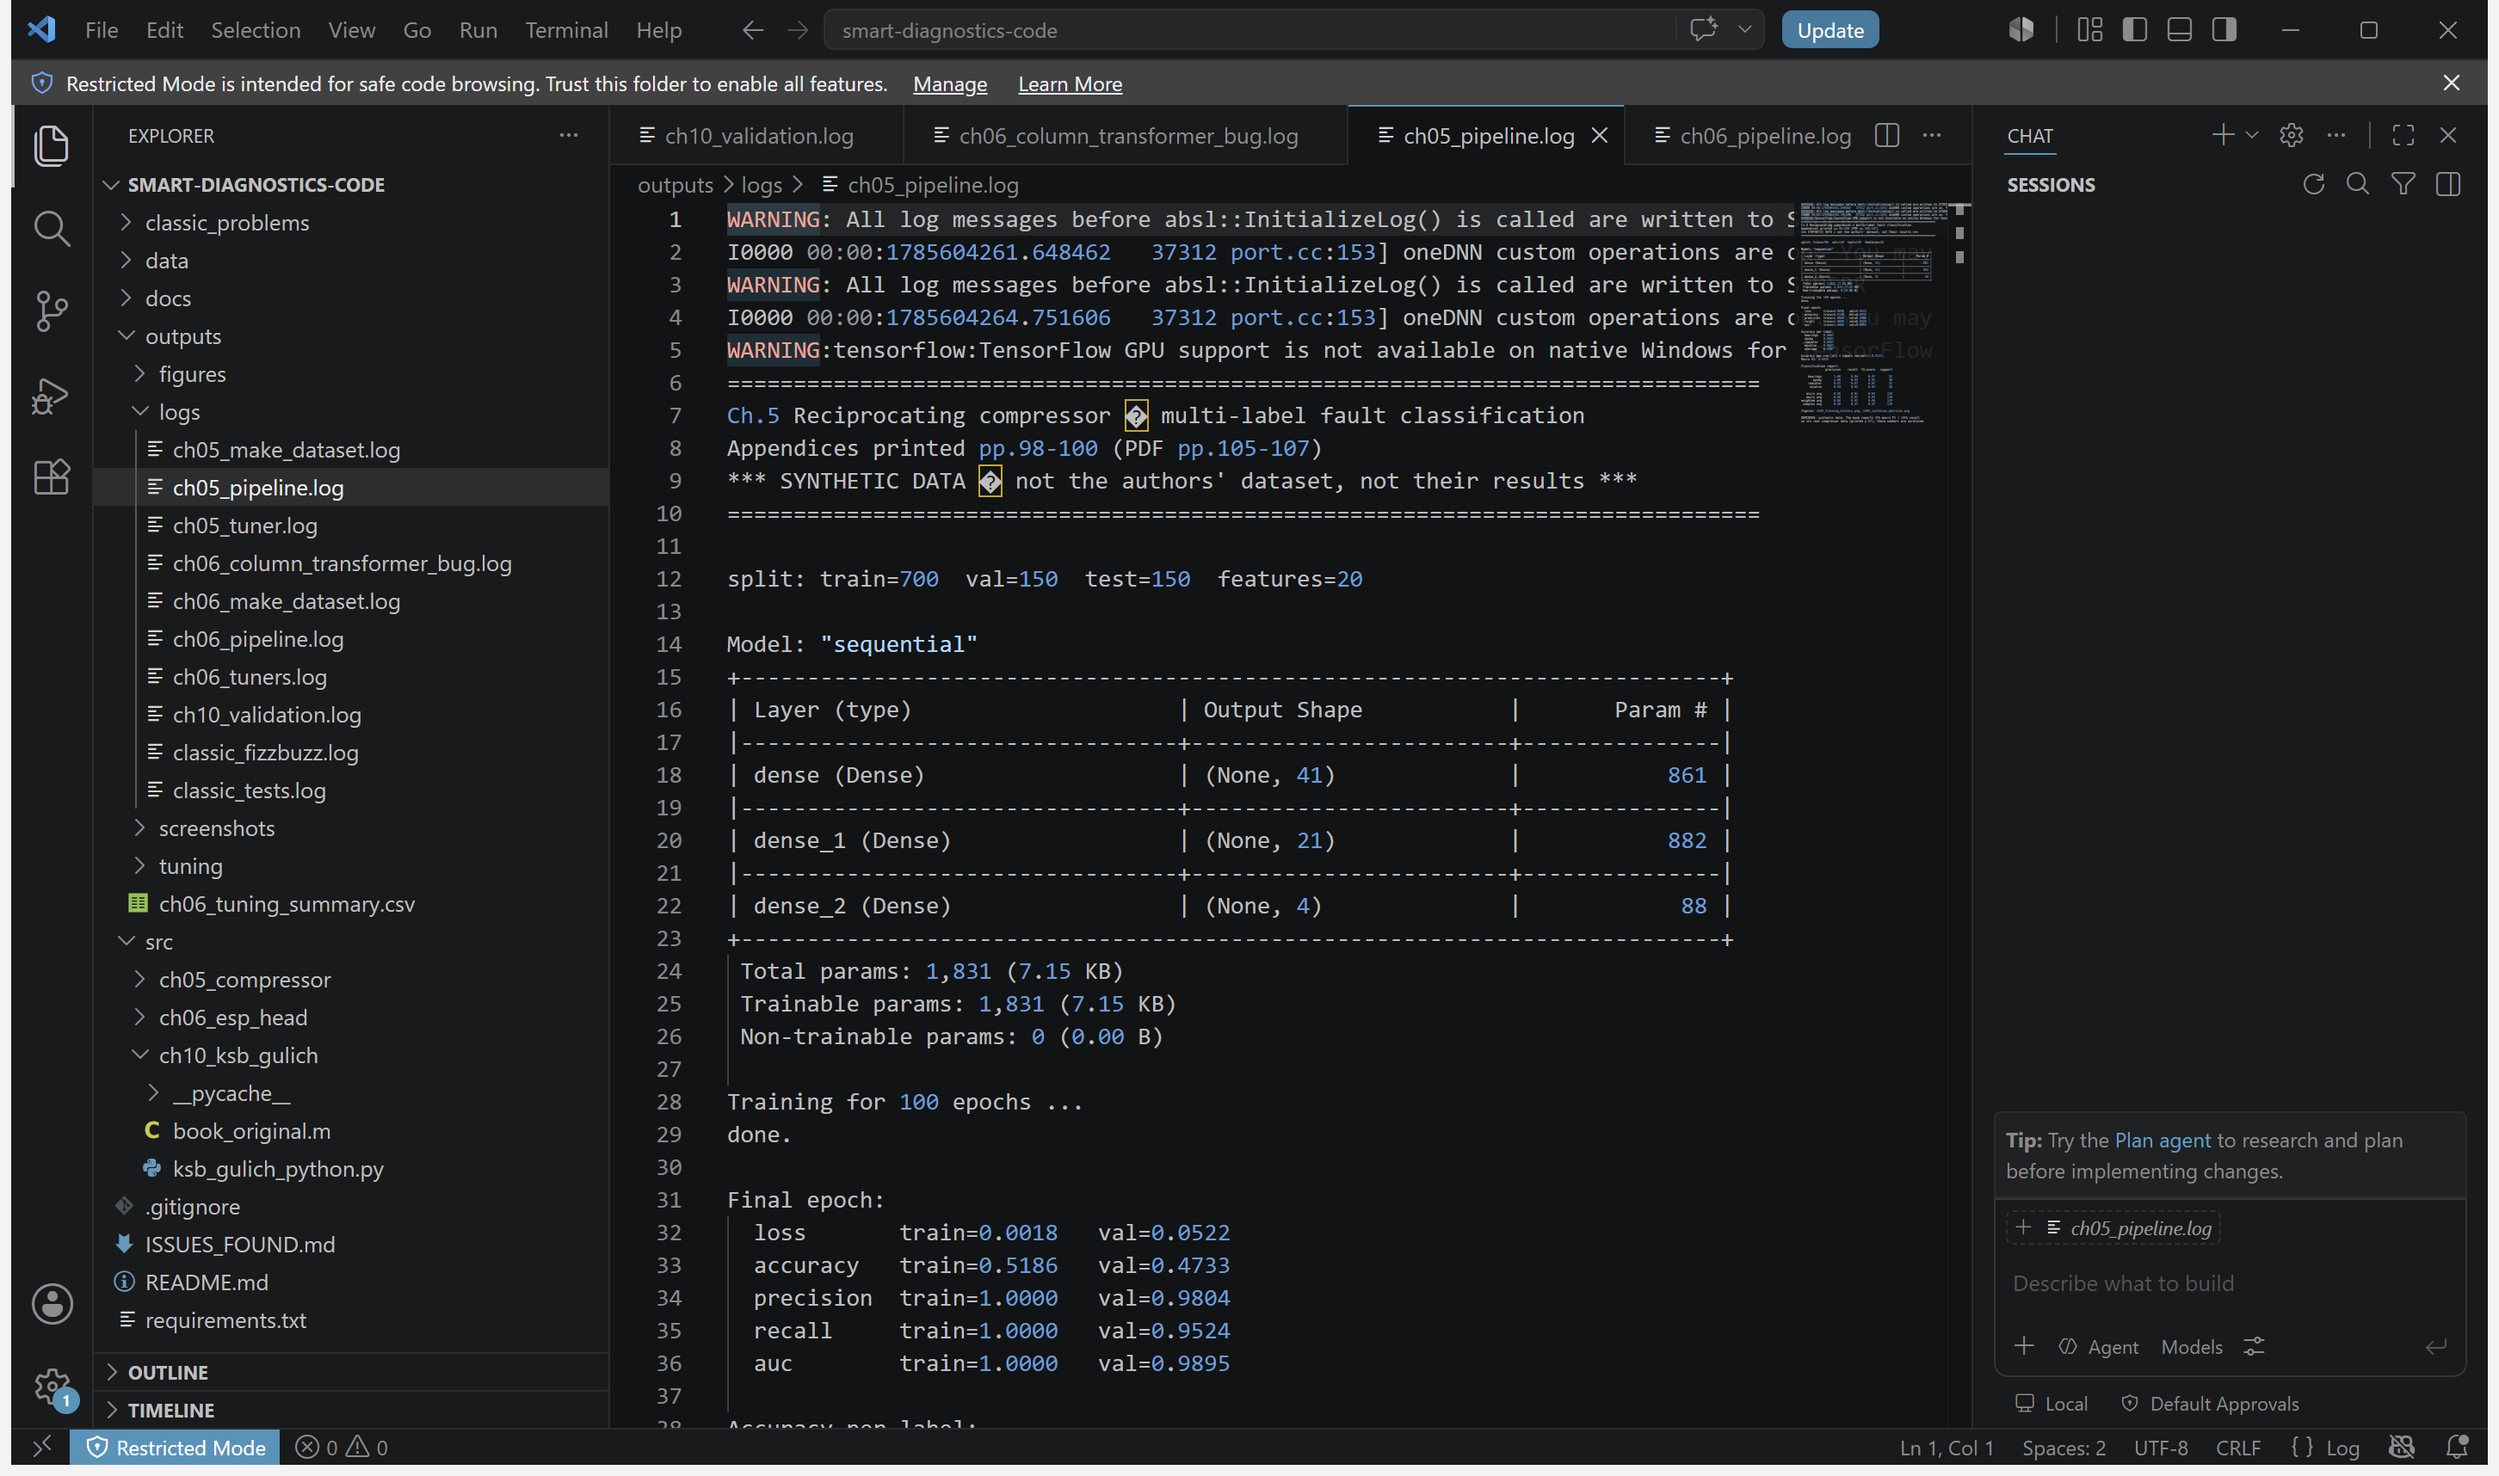
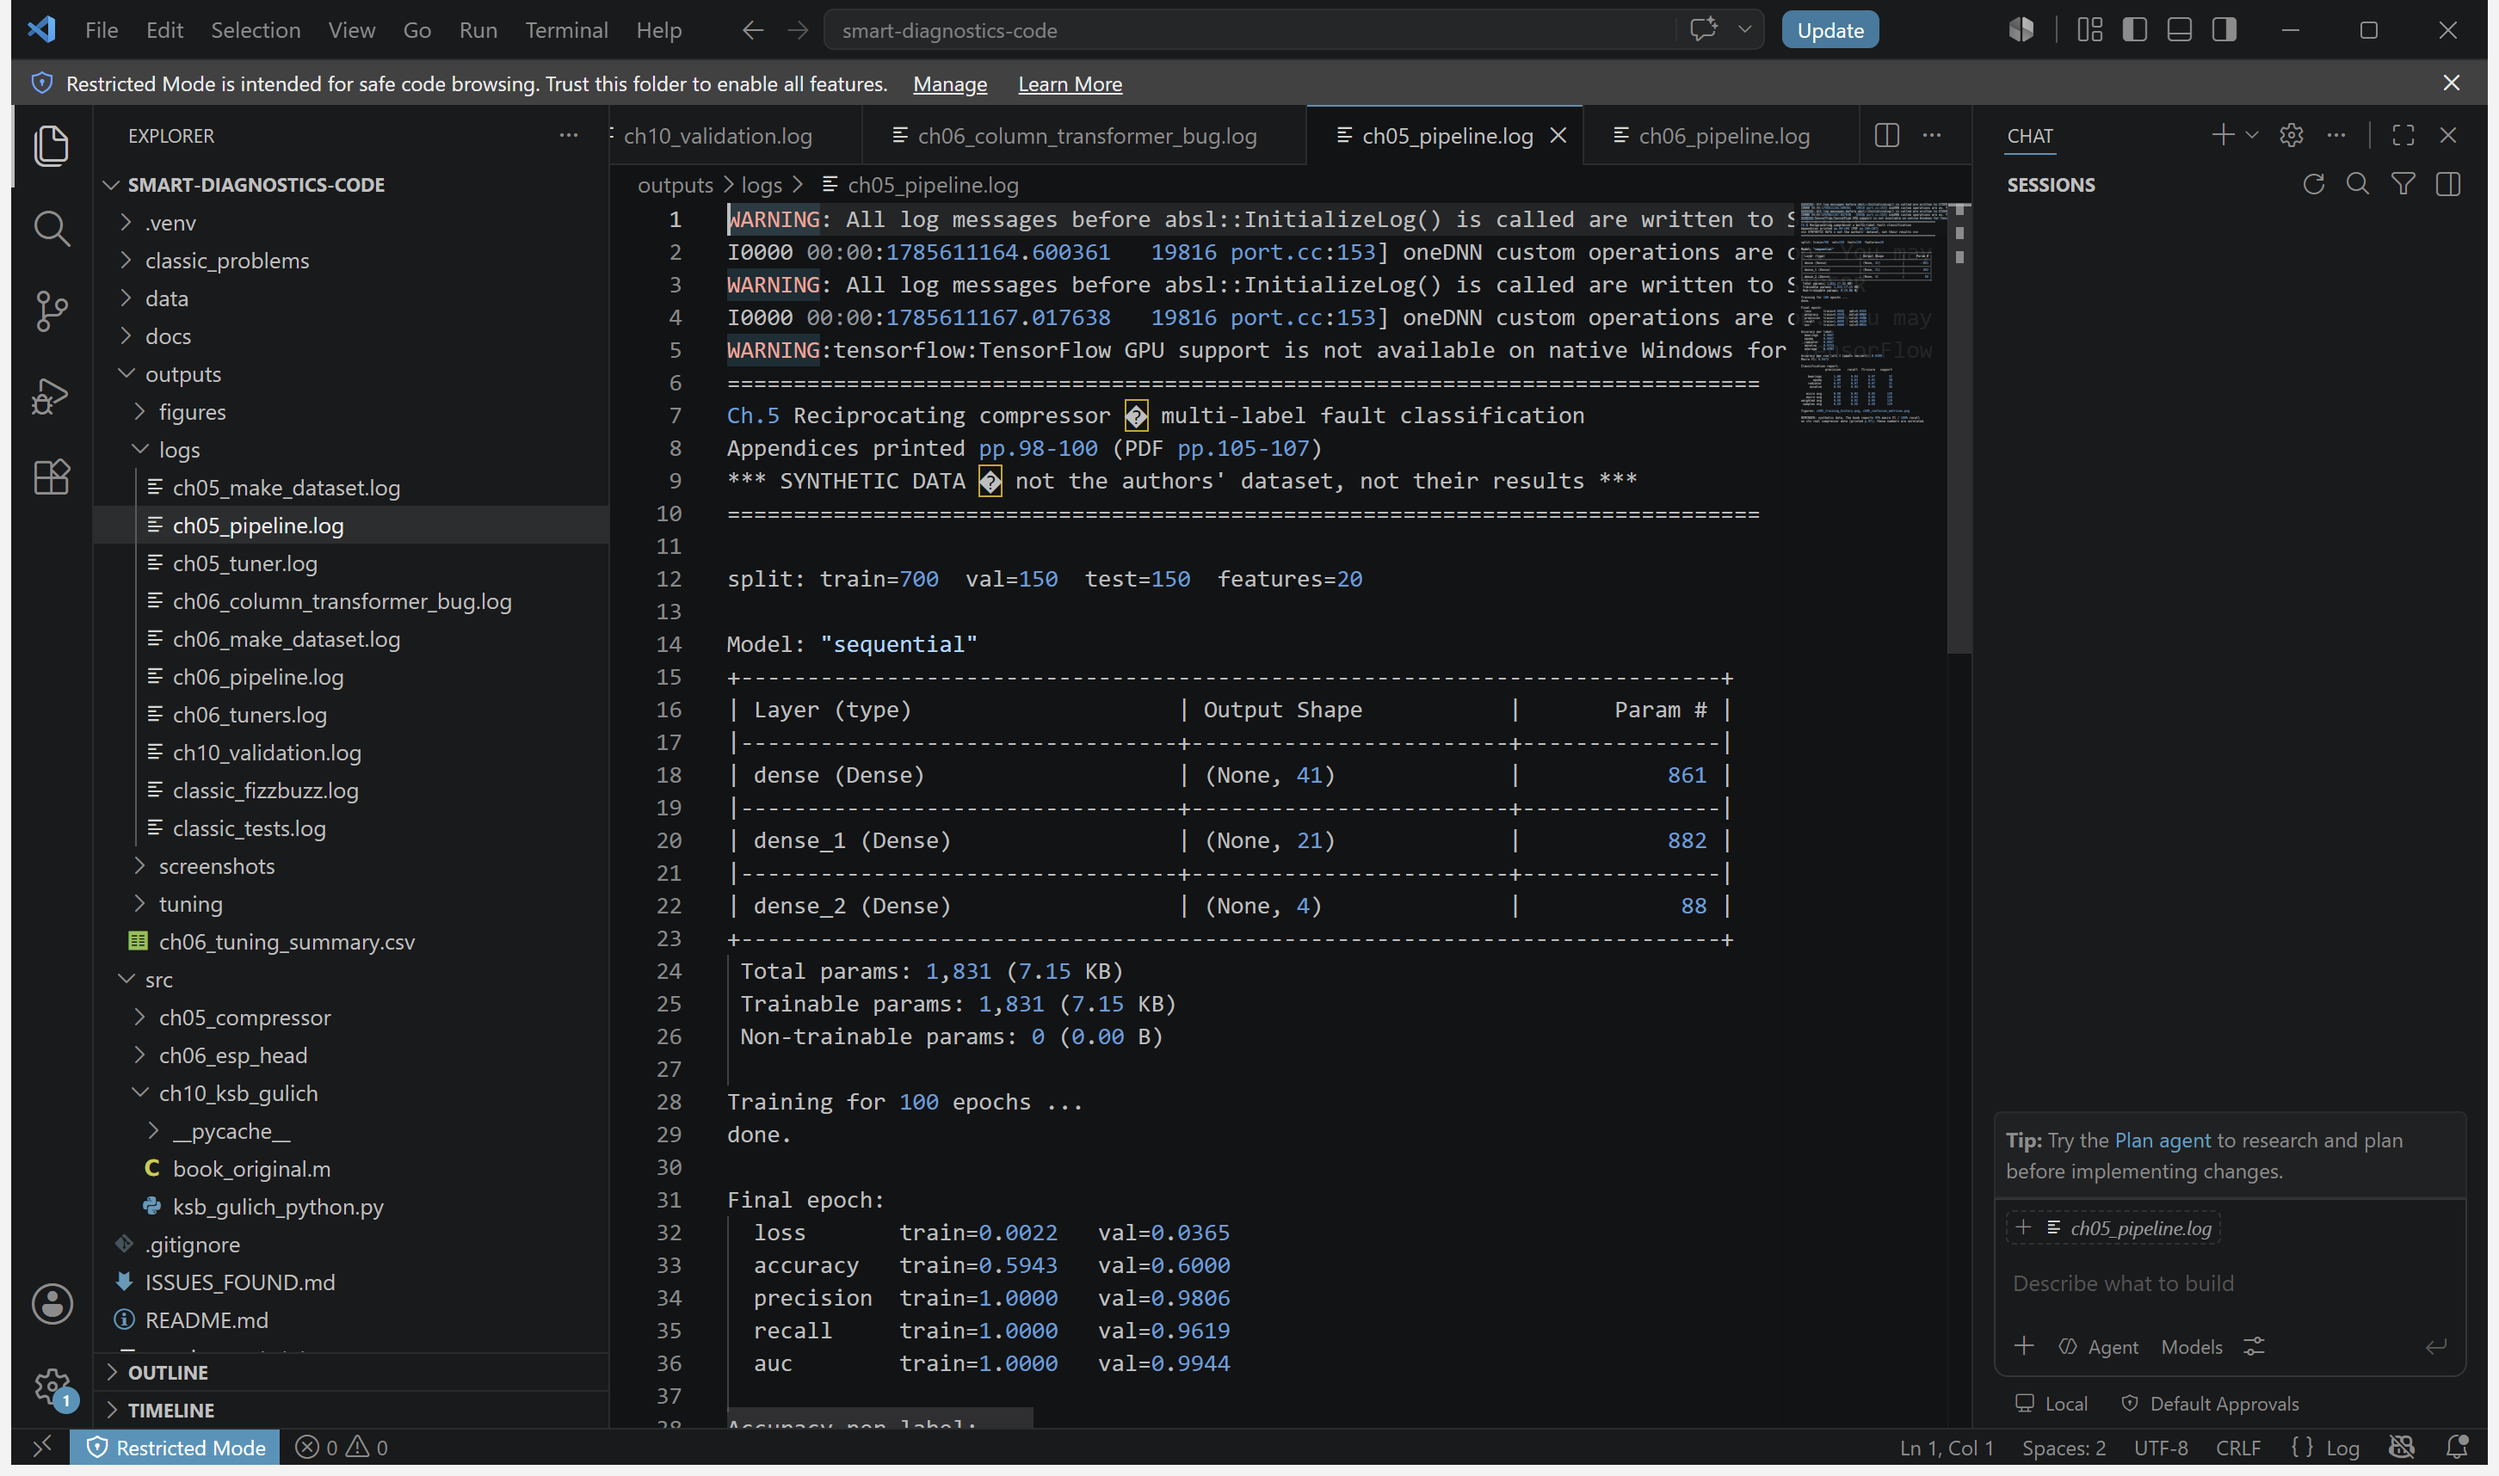
Run from a virtualenv and seed training for reproducibility
Move the TensorFlow stack out of the system Python into a project .venv, and
document venv setup in the README as the supported way to run this.

While re-running everything under the venv, the network results moved on every
retrain: the book seeds its train/test split but not TensorFlow's weight
initialisation, so its network numbers are not reproducible run-to-run, and the
committed logs, figures and README kept drifting out of agreement.

Both pipelines now call keras.utils.set_random_seed(), so results are stable:
two consecutive runs give bit-identical metrics. Logs, figures, screenshots and
the README numbers are all regenerated from the same seeded run. The tuner
scripts stay unseeded and may still pick different architectures.

The Chapter 10 validation was unaffected throughout - it is pure arithmetic and
reproduces the book's 64 published values identically under both interpreters.

diff --git a/src/ch05_compressor/pipeline.py b/src/ch05_compressor/pipeline.py
@@ -141,6 +141,10 @@ def main():
     print("*** SYNTHETIC DATA — not the authors' dataset, not their results ***")
     print("=" * 78)
 
+    # Seed weight init / shuffling so a rerun reproduces these numbers. The book does
+    # not do this, which is why its results are not reproducible run-to-run.
+    keras.utils.set_random_seed(RANDOM_STATE)
+
     (xtr, ytr), (xva, yva), (xte, yte) = load_and_preprocess()
     print(f"\nsplit: train={len(xtr)}  val={len(xva)}  test={len(xte)}  features={xtr.shape[1]}")
 

diff --git a/src/ch06_esp_head/pipeline.py b/src/ch06_esp_head/pipeline.py
@@ -183,6 +183,9 @@ def main():
     results, histories, metric_rows = [], [], []
     for name, builder in [("MLP", build_mlp), ("FCC", build_fcc)]:
         print(f"\n--- {name} ---")
+        # Reseed before each build so both models start from a reproducible state and
+        # the comparison between them is not luck of initialisation.
+        tf.keras.utils.set_random_seed(RND_SEED)
         model = builder()
         model.summary()
         hist = model.fit(

diff --git a/README.md b/README.md
@@ -73,9 +73,23 @@ original typos included — so the audit can be checked against the source.
 
 ## Running it
 
+Use a virtual environment — TensorFlow pulls in a large dependency tree and should not
+go into a system Python.
+
+Windows:
+
 ```bash
-pip install -r requirements.txt
+python -m venv .venv && .venv\Scripts\python.exe -m pip install -r requirements.txt
 ```
+
+macOS / Linux:
+
+```bash
+python3 -m venv .venv && .venv/bin/python -m pip install -r requirements.txt
+```
+
+Then run the modules with the venv's interpreter (`.venv\Scripts\python.exe` on Windows,
+`.venv/bin/python` elsewhere) — shown below as `python` for brevity.
 
 ```bash
 python src/ch10_ksb_gulich/ksb_gulich_python.py
@@ -99,8 +113,8 @@ python classic_problems/fizzbuzz.py
 python classic_problems/test_classic.py
 ```
 
-Environment used: Windows 11, Python 3.13.5, TensorFlow 2.21.0, Keras 3.15.1,
-keras-tuner 1.4.8, scikit-learn 1.8.0.
+Environment used: Windows 11, Python 3.13.5 in a venv, TensorFlow 2.21.0, Keras 3.15.1,
+keras-tuner 1.4.8, scikit-learn 1.9.0, numpy 2.5.1, pandas 3.0.5, matplotlib 3.11.1.
 The book's Chapter 6 ran on Python 3.11.13 / TF 2.18.0 / Keras 3.8.0 (printed p.133).
 
 ---
@@ -133,10 +147,10 @@ The architecture is exactly as printed: `20 → Dense(41, relu) → Dense(21, re
 Dense(4, sigmoid)`, binary cross-entropy, Adam, multi-label over bearings / water pump /
 radiator / discharge valve.
 
-On synthetic data: 0.982 mean per-label accuracy, 0.927 per-row accuracy, 0.954 macro
-F1. Bayesian tuning selected (24, 16) units against the baseline (41, 21) — a 46.9%
-parameter reduction, which echoes the chapter's "reduced the number of parameters by
-almost half" (printed p.97). The echo is qualitative only; the data is invented.
+On synthetic data: 0.920 per-row accuracy and 0.947 macro F1. Bayesian tuning selected
+(16, 16) units against the baseline (41, 21) — a 63.1% parameter reduction, comfortably
+past the chapter's "reduced the number of parameters by almost half" (printed p.97).
+The echo is qualitative only; the data is invented.
 
 ### Chapter 6 — ESP head estimation
 
@@ -145,11 +159,18 @@ input and all previous hidden layers.
 
 | model | params | MAE (ft) | RMSE (ft) | MAPE | R² | within ±10% |
 |-------|--------|----------|-----------|------|-----|-------------|
-| MLP | 161 | 0.734 | 1.079 | 2.63% | 0.995 | 98.3% |
-| FCC | 204 | 0.430 | 0.576 | 1.64% | 0.999 | 99.4% |
+| MLP | 161 | 0.868 | 1.242 | 3.53% | 0.993 | 93.3% |
+| FCC | 204 | 0.543 | 0.694 | 2.42% | 0.998 | 98.3% |
 
 FCC beating MLP on raw error matches the chapter's own observation (printed p.133) —
 again, qualitative agreement on synthetic data, not a reproduction.
+
+> **On reproducibility.** The book seeds its train/test split but not TensorFlow's weight
+> initialisation, so its network results cannot be reproduced run-to-run — I watched the
+> figures above move on every retrain before pinning them. Both pipelines here call
+> `keras.utils.set_random_seed(...)`, so the numbers in this table and in
+> `outputs/logs/` are reproducible: rerun and you get them back exactly. The tuner
+> scripts remain unseeded and may still select different architectures between runs.
 
 The synthetic generator is not noise: it uses the pump affinity laws, which the book's
 own BEP table obeys exactly (1388.6 × 3500/1800 = 2700.0 against the book's 2700), and
